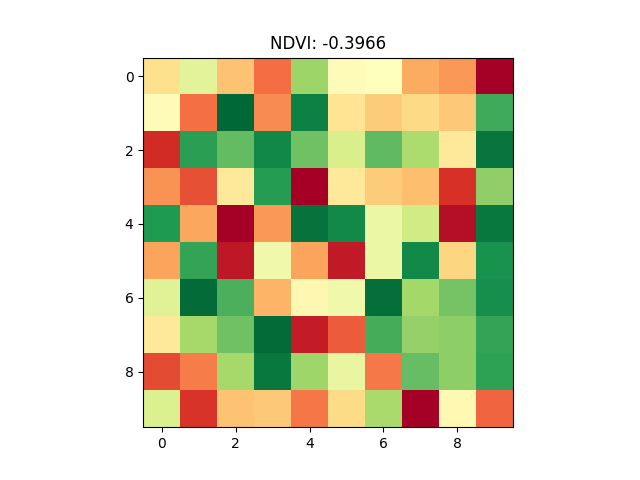
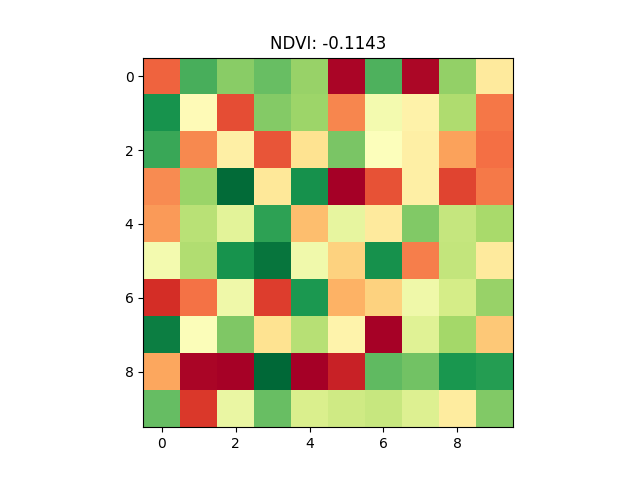
Update

diff --git a/app1.py b/app1.py
@@ -1,0 +1,145 @@
+from flask import Flask, request, render_template
+import tensorflow as tf
+import numpy as np
+from PIL import Image
+import os
+
+# Initialize Flask app
+app = Flask(__name__)
+app.config['UPLOAD_FOLDER'] = 'uploads'
+
+# Load trained model
+model = tf.keras.models.load_model("best_plant_disease_model.h5")
+
+# Class names from dataset
+class_names = [
+    'Pepper__bell___Bacterial_spot', 
+    'Pepper__bell___healthy', 
+    'Potato___Early_blight', 
+    'Potato___Late_blight', 
+    'Potato___healthy', 
+    'Tomato_Bacterial_spot', 
+    'Tomato_Early_blight', 
+    'Tomato_Late_blight',
+    'Tomato_Leaf_Mold', 
+    'Tomato_Septoria_leaf_spot', 
+    'Tomato_Spider_mites_Two_spotted_spider_mite', 
+    'Tomato__Target_Spot', 
+    'Tomato__Tomato_YellowLeaf__Curl_Virus', 
+    'Tomato__Tomato_mosaic_virus', 
+    'Tomato_healthy'
+]
+
+#Treatment suggestions dictionary
+treatment_suggestions = {
+    #Pepper Bell
+    'Pepper__bell___Bacterial_spot': (
+        "Remove infected leaves, avoid overhead irrigation, use copper-based sprays. \n\n"
+        "Source: UC IPM (https://ipm.ucanr.edu/agriculture/peppers/bacterial-spot/?utm_source=chatgpt.com#gsc.tab=0)"
+    ),
+    'Pepper__bell___healthy': (
+        "Plant appears healthy. Continue watering properly and maintain good air circulation."
+    ),
+
+    #Potato
+    'Potato___Early_blight': (
+        "Rotate crops, stake plants for airflow, mulch to prevent soil splash, and apply early fungicide. \n\n"
+        "Source: Cornell University (https://www.vegetables.cornell.edu/pest-management/disease-factsheets/managing-tomato-diseases-successfully/)"
+    ),
+    'Potato___Late_blight': (
+        "Destroy infected plants, avoid water on leaves, and apply recommended fungicides. \n\n"
+        "Source: Cornell University (https://www.vegetables.cornell.edu/pest-management/disease-factsheets/managing-tomato-diseases-successfully/)"
+    ),
+    'Potato___healthy': (
+        "Healthy plant! Maintain crop rotation and monitor regularly for blight symptoms."
+    ),
+
+    #Tomato
+    'Tomato_Bacterial_spot': (
+        "Use certified disease-free seeds, avoid overhead watering, and spray copper fungicides. \n\n"
+        "Source: UC IPM (https://ipm.ucanr.edu/agriculture/tomato/bacterial-spot/)"
+    ),
+    'Tomato_Early_blight': (
+        "Remove lower infected leaves, stake plants, rotate crops, and start fungicide early. \n\n"
+        "Source: Cornell University (https://www.vegetables.cornell.edu/pest-management/disease-factsheets/managing-tomato-diseases-successfully/)"
+    ),
+    'Tomato_Late_blight': (
+        "Destroy infected plants immediately, use fungicides in cool humid conditions, and rotate crops. \n\n"
+        "Source: Cornell University (https://www.vegetables.cornell.edu/pest-management/disease-factsheets/managing-tomato-diseases-successfully/)"
+    ),
+    'Tomato_Leaf_Mold': (
+        "Reduce humidity, increase ventilation, prune lower leaves, and apply fungicides if needed. \n\n"
+        "Source: University of Minnesota Extension (https://extension.umn.edu/plant-diseases/tomato-leaf-spot-diseases)"
+    ),
+    'Tomato_Septoria_leaf_spot': (
+        "Remove infected leaves, mulch to avoid soil splash, avoid dense planting, and use fungicide early. \n\n"
+        "Source: University of Minnesota Extension (https://extension.umn.edu/plant-diseases/tomato-leaf-spot-diseases)"
+    ),
+    'Tomato_Spider_mites_Two_spotted_spider_mite': (
+        "Spray water to reduce dust, apply insecticidal soap or neem oil, and increase humidity. \n\n"
+        "Source: University of Maryland (https://www.extension.umd.edu/resource/expect-see-two-spotted-spider-mites-vegetables/?utm_source=chatgpt.com)"
+    ),
+    'Tomato__Target_Spot': (
+        "Improve airflow, rotate crops, and apply fungicide at early symptoms. \n\n"
+        "Source: Bayer Crop Science (https://www.vegetables.bayer.com/us/en-us/resources/growing-tips-and-innovation-articles/agronomic-spotlights/target-spot-of-tomato.html)"
+    ),
+    'Tomato__Tomato_YellowLeaf__Curl_Virus': (
+        "Control whiteflies (the insect vector), remove infected plants, and use resistant varieties. \n\n"
+        "Source: North Carolina State University (https://content.ces.ncsu.edu/tomato-yellow-leaf-curl-virus?utm_source=chatgpt.com)"
+    ),
+    'Tomato__Tomato_mosaic_virus': (
+        "Avoid tobacco handling near tomatoes, disinfect tools, and remove infected plants immediately. \n\n"
+        "Source: UC IPM (https://ipm.ucanr.edu/agriculture/tomato/mosaic-diseases-caused-by-potyviruses/?utm_source=chatgpt.com#gsc.tab=0)"
+    ),
+    'Tomato_healthy': (
+        "Plant is healthy! Keep practicing crop rotation, watering at the base, and regular monitoring."
+    )
+}
+
+#Prediction function
+def predict_image(image_path):
+    img = Image.open(image_path).resize((256, 256))
+    img = np.array(img)
+
+    # Remove alpha channel if present
+    if img.shape[-1] == 4:
+        img = img[:, :, :3]      #keep only RGB
+
+    img = tf.keras.applications.vgg19.preprocess_input(img)   #process image
+    img = np.expand_dims(img, axis=0)                         #add extra dimension because module expects a batch of image
+
+    predictions = model.predict(img)
+    predicted_index = np.argmax(predictions)
+    predicted_label = class_names[predicted_index]
+    suggestion = treatment_suggestions.get(predicted_label, "No treatment information available for this disease.")
+    return predicted_label, suggestion
+
+
+
+
+#Home Route
+@app.route('/')
+def index():
+    return render_template('index.html', result='', suggestion='')
+
+
+#Prediction Route
+@app.route('/predict', methods=['POST'])
+def predict():
+    if 'image' not in request.files:
+        return render_template('index.html', result="No file selected.", suggestion='')
+
+    file = request.files['image']
+    if file.filename == '':
+        return render_template('index.html', result="No image provided.", suggestion='')
+
+    filepath = os.path.join(app.config['UPLOAD_FOLDER'], file.filename)
+    file.save(filepath)
+
+    result, suggestion = predict_image(filepath)
+    return render_template('index.html', result=result, suggestion=suggestion)
+
+
+#Run the Flask app
+if __name__ == '__main__':
+    app.run(debug=True)
